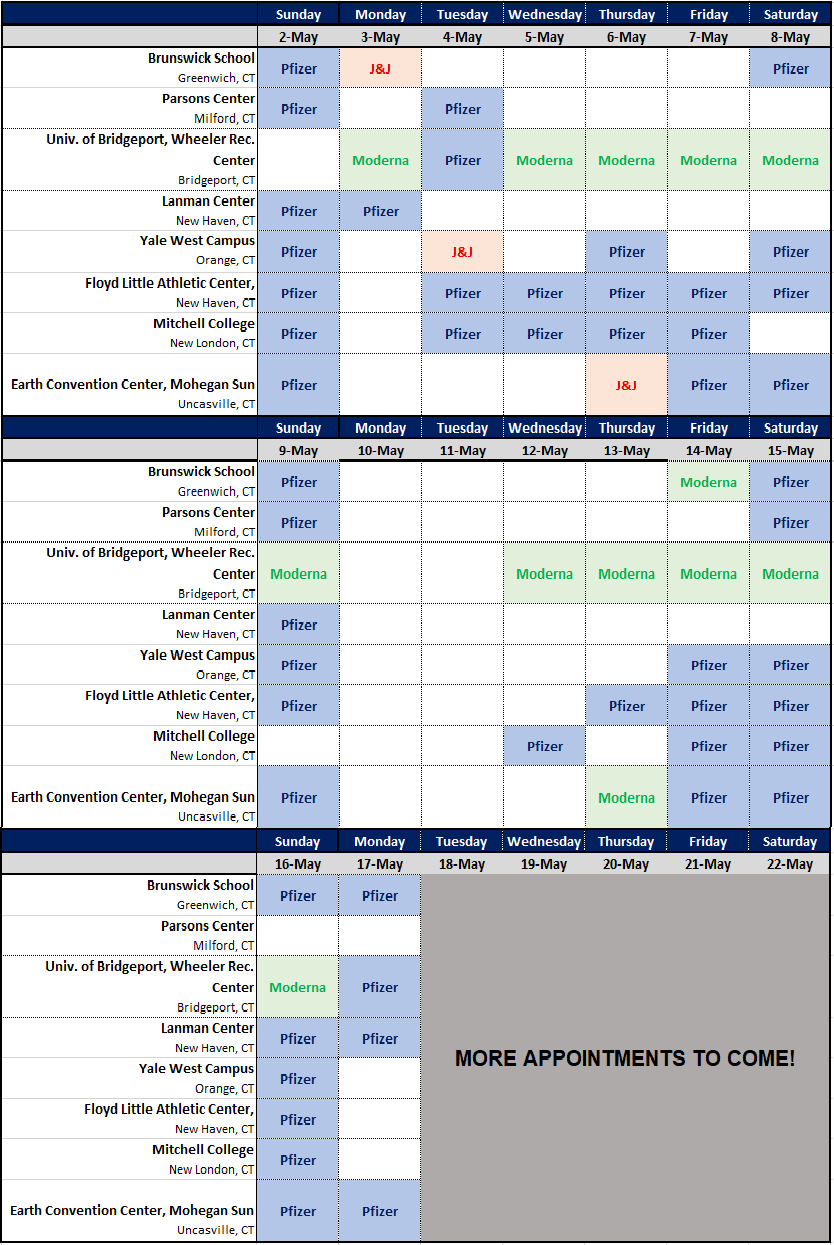
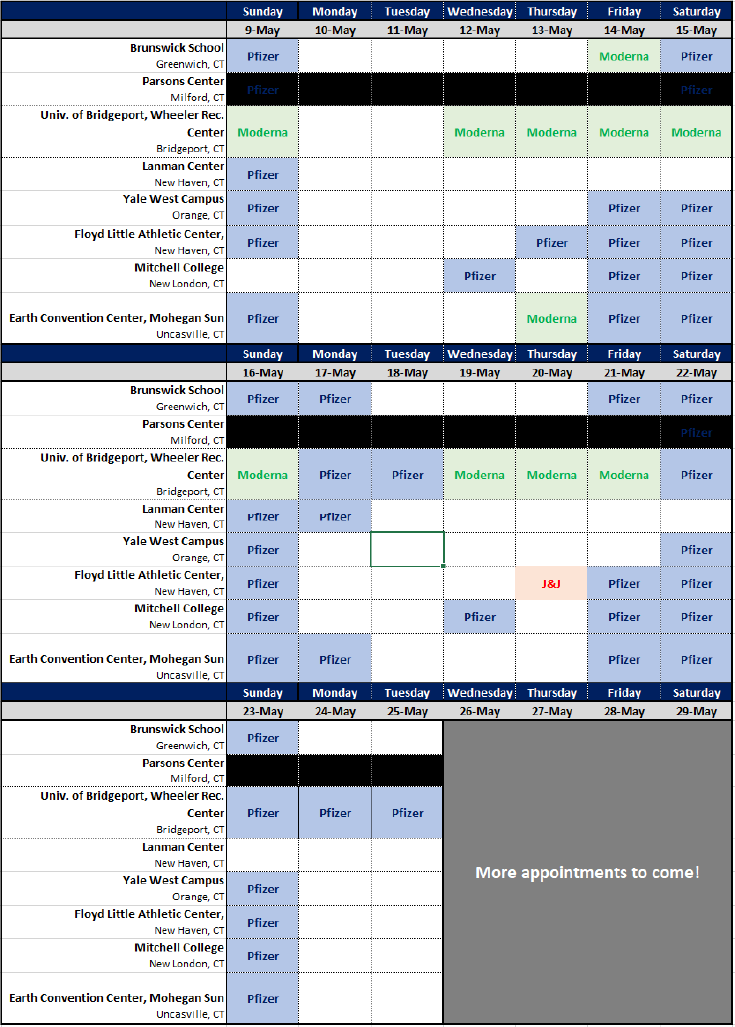
Updaed Schedule + Info page

diff --git a/components/QuestionContainerComponent/VaccinationScheduleConsent/index.js b/components/QuestionContainerComponent/VaccinationScheduleConsent/index.js
@@ -60,7 +60,7 @@ const VaccinationScheduleConsent = ({
               {VSText[0]}
               <br></br>
               <br></br>
-              <p className="versiontxt">v9 5.17.21</p>
+              <p className="versiontxt">v10 5.25.21</p>
               <a href="/info" target="_blank" rel="noreferrer">
               <img src="/Schedule.PNG" passHref></img>
               </a> </>)}
@@ -78,10 +78,8 @@ const VaccinationScheduleConsent = ({
         a,img {
           margin: 0;
           height: 100vh;
-          width: 100%;
-        }
-        img{
-          
+          width: 90%;
+          text-align: center;
         }
         .versiontxt {
           font-size: 0.7em;

diff --git a/pages/info.js b/pages/info.js
@@ -1,0 +1,28 @@
+import React, { useState } from 'react';
+import Head from 'next/head';
+
+export default function Info() {
+
+  return (
+    <div className="container">
+      <Head>
+        <title>YNHH COVID19 Vaccination</title>
+        <link rel="icon" href="/favicon.ico" />
+      </Head>
+      
+      <img style={{ }} src="Schedule.PNG"></img>
+
+      <style jsx>{`
+        img {
+          width: 55%;
+          height: 60%;
+        }
+        @media (max-width: 475px) {
+          img {
+            width: 100%;
+            height: 100%
+          }
+      `}</style>
+    </div>
+  );
+}
